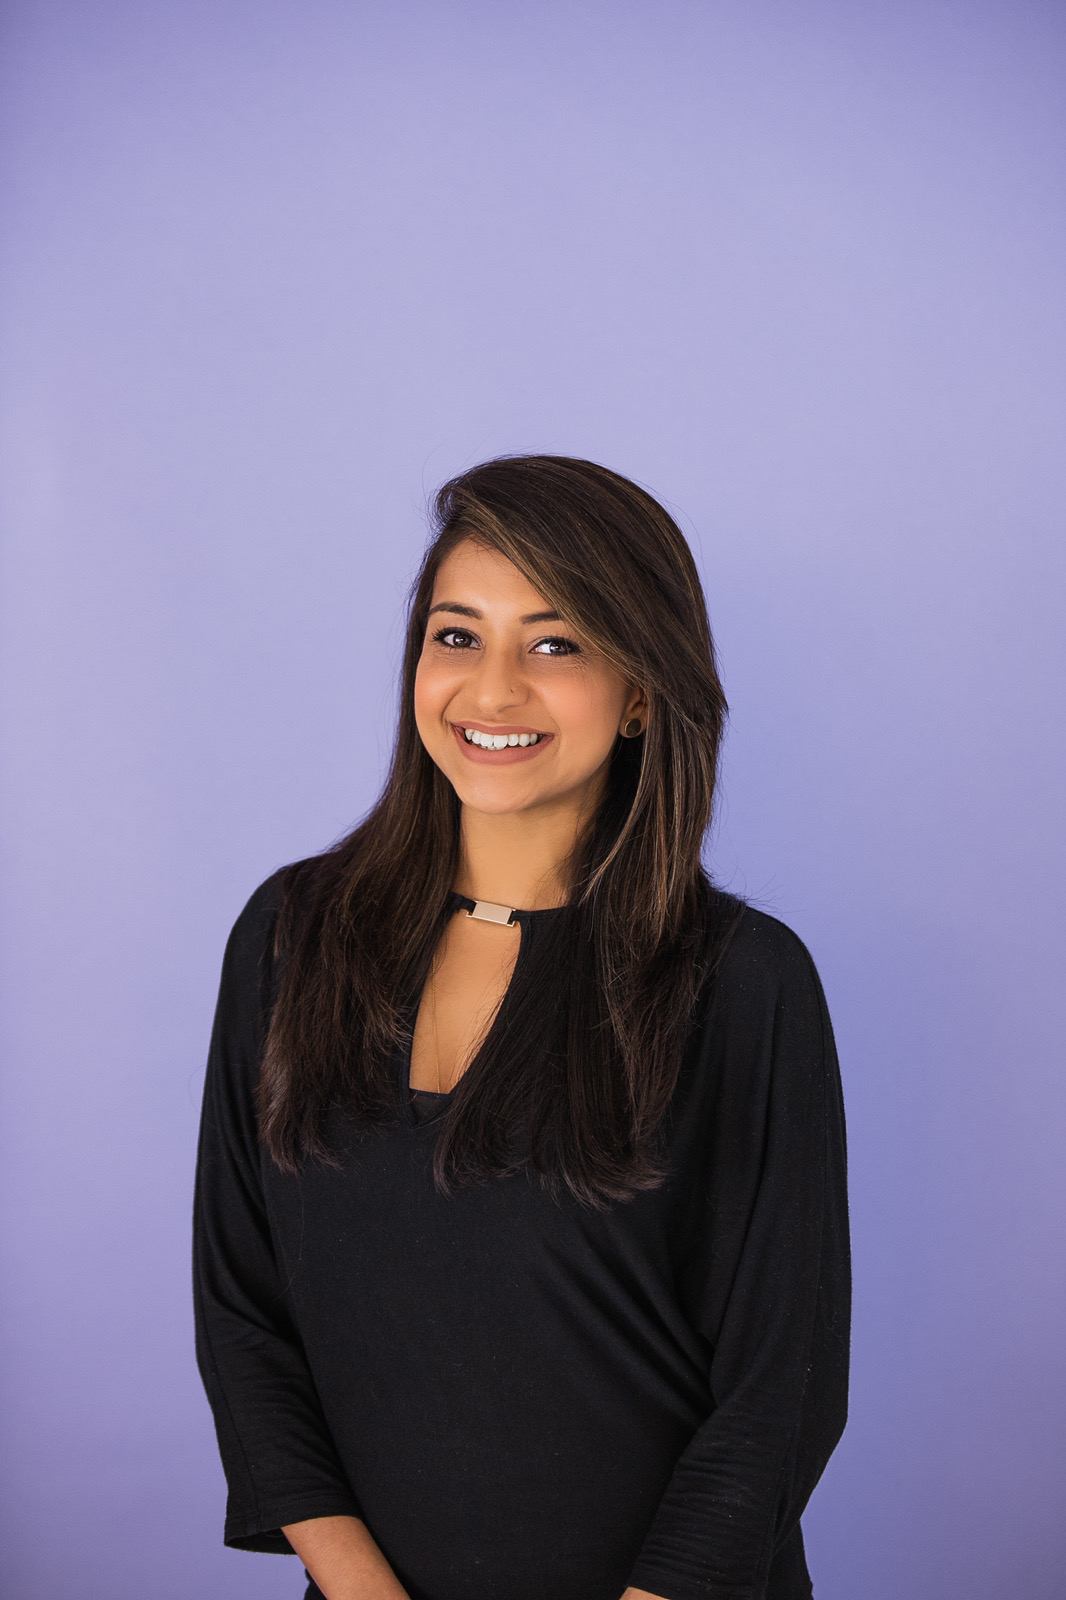
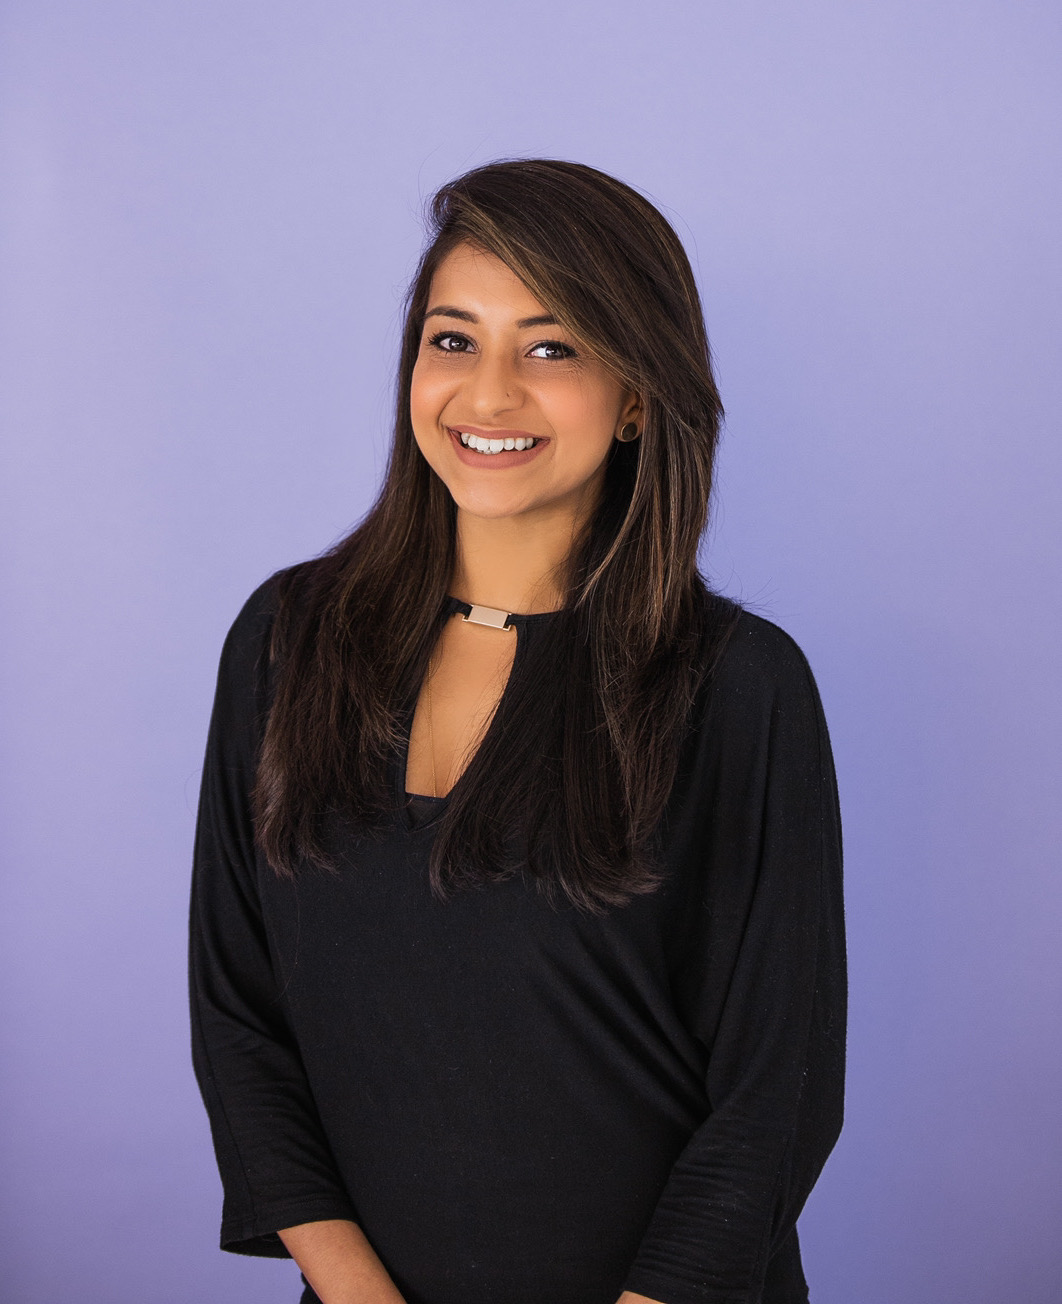
working on portfolio styling

diff --git a/index.html b/index.html
@@ -166,10 +166,12 @@
 
       <!-- PORTFOLIO ITEMS SECTION STARTS -->
       <section class="portfolio wrapper" id="portfolio">
+        <h3>Portfolio</h3>
         <div class="portfolio-flex">
-          <h3>Portfolio</h3>
+          
           <!-- PROJECT 1 -->
           <div class="portfolio__content">
+            <h4>Grit App</h4>
             <div class="portfolio__content--img" data-aos="fade-right">
               <img
                 src="assets/Grit-App.png"
@@ -177,7 +179,7 @@
               />
             </div>
             <div class="portfolio__content--text-right" data-aos="fade-left">
-              <h4>Grit App</h4>
+              
               <p>
                 Project Description: JavaScript App using the jQuery library in
                 order to build an interactive site.
@@ -188,12 +190,12 @@
               </p>
               <p>Tools used:</p>
               <p>Javascript jQuery CSS3/SCSS Git</p>
-              <p>
+              <!-- <p>
                 Lorem ipsum dolor sit amet consectetur adipisicing elit. Quasi
                 dicta magni pariatur recusandae, aspernatur aperiam fugiat.
                 Repellendus obcaecati voluptatum architecto velit iste sunt ex
                 tenetur rem nesciunt ea. Possimus, fuga!
-              </p>
+              </p> -->
               <div class="portfolio__content--links">
                 <a
                   href="https://pritikaroy.github.io/pritikaRoyProjectThree/"
@@ -213,6 +215,7 @@
 
           <!-- PROJECT 2 -->
           <div class="portfolio__content">
+              <h4>Giphy App</h4>
             <div class="portfolio__content--img" data-aos="fade-left">
               <img
                 src="assets/React-App.png"
@@ -220,7 +223,6 @@
               />
             </div>
             <div class="portfolio__content--text-left" data-aos="fade-right">
-              <h4>Giphy App</h4>
               <p>
                 Project Description: JavaScript App using the React library to
                 create an interactive application.
@@ -232,12 +234,12 @@
               </p>
               <p>Tools used:</p>
               <p>React API CSS3/SCSS Git</p>
-              <p>
+              <!-- <p>
                 Lorem ipsum dolor sit amet consectetur adipisicing elit. Quasi
                 dicta magni pariatur recusandae, aspernatur aperiam fugiat.
                 Repellendus obcaecati voluptatum architecto velit iste sunt ex
                 tenetur rem nesciunt ea. Possimus, fuga!
-              </p>
+              </p> -->
               <div class="portfolio__content--links">
                 <a
                   href="https://pritikaroy.github.io/PritikaRoyGiphyApp/"
@@ -256,6 +258,7 @@
           </div>
           <!-- PROJECT 3 -->
           <div class="portfolio__content">
+              <h4>Concert Accountant App</h4>
             <div class="portfolio__content--img" data-aos="fade-right">
               <img
                 src="assets/Concert-Accountant-App.png"
@@ -263,10 +266,9 @@
               />
             </div>
             <div class="portfolio__content--text-right" data-aos="fade-left">
-              <h4>Concert Accountant App</h4>
               <p>
-                Project Description: We mimicked an agency environment. We
-                worked in small groups to build a simple web application for a
+                Project Description: We were asked to replicate an agency environment. We
+                worked in a group of 4 to build a simple web application for a
                 client. This project encompasses same complexity as our previous
                 React/API projects, but the focus was on delivering a
                 functional product, sticking to a timeline, and collaborating
@@ -274,12 +276,12 @@
               </p>
               <p>Tools used:</p>
               <p>React JavaScript API CSS3/SCSS Git</p>
-              <p>
+              <!-- <p>
                 Lorem ipsum dolor sit amet consectetur adipisicing elit. Quasi
                 dicta magni pariatur recusandae, aspernatur aperiam fugiat.
                 Repellendus obcaecati voluptatum architecto velit iste sunt ex
                 tenetur rem nesciunt ea. Possimus, fuga!
-              </p>
+              </p> -->
               <p>
                 Group programmed with
                 <a
@@ -319,11 +321,12 @@
       <!-- PORTFOLIO ITEMS SECTION ENDS -->
 
       <!-- SECTION CONTACT STARTS -->
-      <section class="contact" id="contact" data-aos="fade-in">
+      <section class="contact wrapper" id="contact" data-aos="fade-in">
+        <div class="contact-flex wrapper">
         <div class="about__contact--img" data-aos="fade-right">
           <img src="assets/about.jpg" alt="Head shot photo of Pritika." />
         </div>
-        <div class="wrapper">
+        <div class="form-style">
           <h3>Contact Me</h3>
           <p>
             Thank you for visiting my website! Drop me a line below to say Hi :
@@ -361,6 +364,7 @@
               <input type="submit" value="Send Message!" />
             </div>
           </form>
+        </div>
         </div>
       </section>
       <!-- CONTACT SECTION ENDS -->
@@ -460,7 +464,7 @@
         let typed = new Typed(".type", {
           strings: [
             "Front-End Web Developer.",
-            "dog Mom!",
+            "dog mom!",
             "puzzle enthusiast!"
           ],
           typeSpeed: 70,
@@ -470,7 +474,7 @@
         });
 
         $("a").smoothScroll({
-            speed: 2000
+            speed: 1000
         });
 
         $(".menu__burger, .navigation__menu").on("click", function() {

diff --git a/styles/style.css b/styles/style.css
@@ -214,6 +214,7 @@ h4 {
   font-family: "Montserrat", sans-serif;
   color: #BB9A60;
   font-size: 2rem;
+  text-shadow: 2px 2px 2px #BB9A60;
 }
 
 p {
@@ -599,30 +600,41 @@ a {
   -webkit-box-direction: normal;
       -ms-flex-direction: row;
           flex-direction: row;
+  -webkit-box-pack: justify;
+      -ms-flex-pack: justify;
+          justify-content: space-between;
 }
 
 .portfolio {
-  padding: 50px 0;
+  padding: 5px 0;
   border: 2px solid tomato;
-  height: 85vh;
+  height: 90vh;
 }
 
 .portfolio h3 {
   text-align: center;
 }
 
+.portfolio h4 {
+  text-align: left;
+  color: #2C3E50;
+  border: 2px solid tomato;
+}
+
 .portfolio img {
   margin-left: 25px;
   margin-top: 25px;
   margin-bottom: -30px;
-  width: 50%;
+  width: 70%;
+  -webkit-box-shadow: -25px 25px 1px -15px #BB9A60;
+          box-shadow: -25px 25px 1px -15px #BB9A60;
 }
 
 .portfolio__content {
   -webkit-box-pack: left;
       -ms-flex-pack: left;
           justify-content: left;
-  padding: 80px 0;
+  padding: 10px 0;
   border: 2px solid yellowgreen;
 }
 
@@ -669,17 +681,37 @@ a {
   }
 }
 
+.contact-flex {
+  display: -webkit-box;
+  display: -ms-flexbox;
+  display: flex;
+  -webkit-box-orient: horizontal;
+  -webkit-box-direction: normal;
+      -ms-flex-direction: row;
+          flex-direction: row;
+  -webkit-box-pack: justify;
+      -ms-flex-pack: justify;
+          justify-content: space-between;
+}
+
+.form-style {
+  width: 100%;
+}
+
 .contact {
   background-color: #f1f1f1;
   padding: 100px 0;
-  font-size: 1.2rem;
+  width: 100%;
 }
 
 .contact img {
   margin-left: 25px;
   margin-top: 25px;
   margin-bottom: -30px;
-  width: 10%;
+  width: 40%;
+  -webkit-box-shadow: -30px 30px 1px -15px #BB9A60;
+          box-shadow: -30px 30px 1px -15px #BB9A60;
+  margin: 10%;
 }
 
 .contact p {

diff --git a/styles/_portfolio.scss b/styles/_portfolio.scss
@@ -1,28 +1,34 @@
 .portfolio-flex {
     display: flex;
     flex-direction: row;
-    // justify-content: space-between;
+    justify-content: space-between;
 }
 .portfolio {
-    padding: 50px 0;
+    padding: 5px 0;
     border: 2px solid tomato;
-    height: 85vh;
+    height: 90vh;
 
     h3 {
         text-align: center;
+    }
+
+    h4 {
+        text-align: left;
+        color: $bg-color;
+        border: 2px solid tomato;
     }
 
     img {
         margin-left: 25px;
         margin-top: 25px;
         margin-bottom: -30px;
-        width: 50%;
+        width: 70%;
+        box-shadow: -25px 25px 1px -15px $accent-color;
         }
 
     &__content {
-        // display: flex;
         justify-content: left;
-        padding: 80px 0;
+        padding: 10px 0;
         border: 2px solid yellowgreen;
         // p:nth-of-type(1) {
         //     color: $accent-color;

diff --git a/styles/_contact.scss b/styles/_contact.scss
@@ -1,15 +1,26 @@
+    .contact-flex {
+    display: flex;
+    flex-direction: row;
+    justify-content: space-between;
+    }
+
+    .form-style {
+        width: 100%;
+    }
+
     .contact {
     background-color: $bg-color-2;
     padding: 100px 0;
-    font-size: 1.2rem;
+    width: 100%;    
 
     img {
-            margin-left: 25px;
-            margin-top: 25px;
-            margin-bottom: -30px;
-            width: 10%;
+        margin-left: 25px;
+        margin-top: 25px;
+        margin-bottom: -30px;
+        width: 40%;
+        box-shadow: -30px 30px 1px -15px $accent-color;
+        margin: 10%;
     }
-        
 
     p {
         text-align: left;

diff --git a/styles/_global.scss b/styles/_global.scss
@@ -28,6 +28,7 @@ h4 {
         font-family: $main-font;
         color: $accent-color;
         font-size: 2rem;
+        text-shadow: 2px 2px 2px $accent-color;
     }
 p {
     font-family: $second-font;
